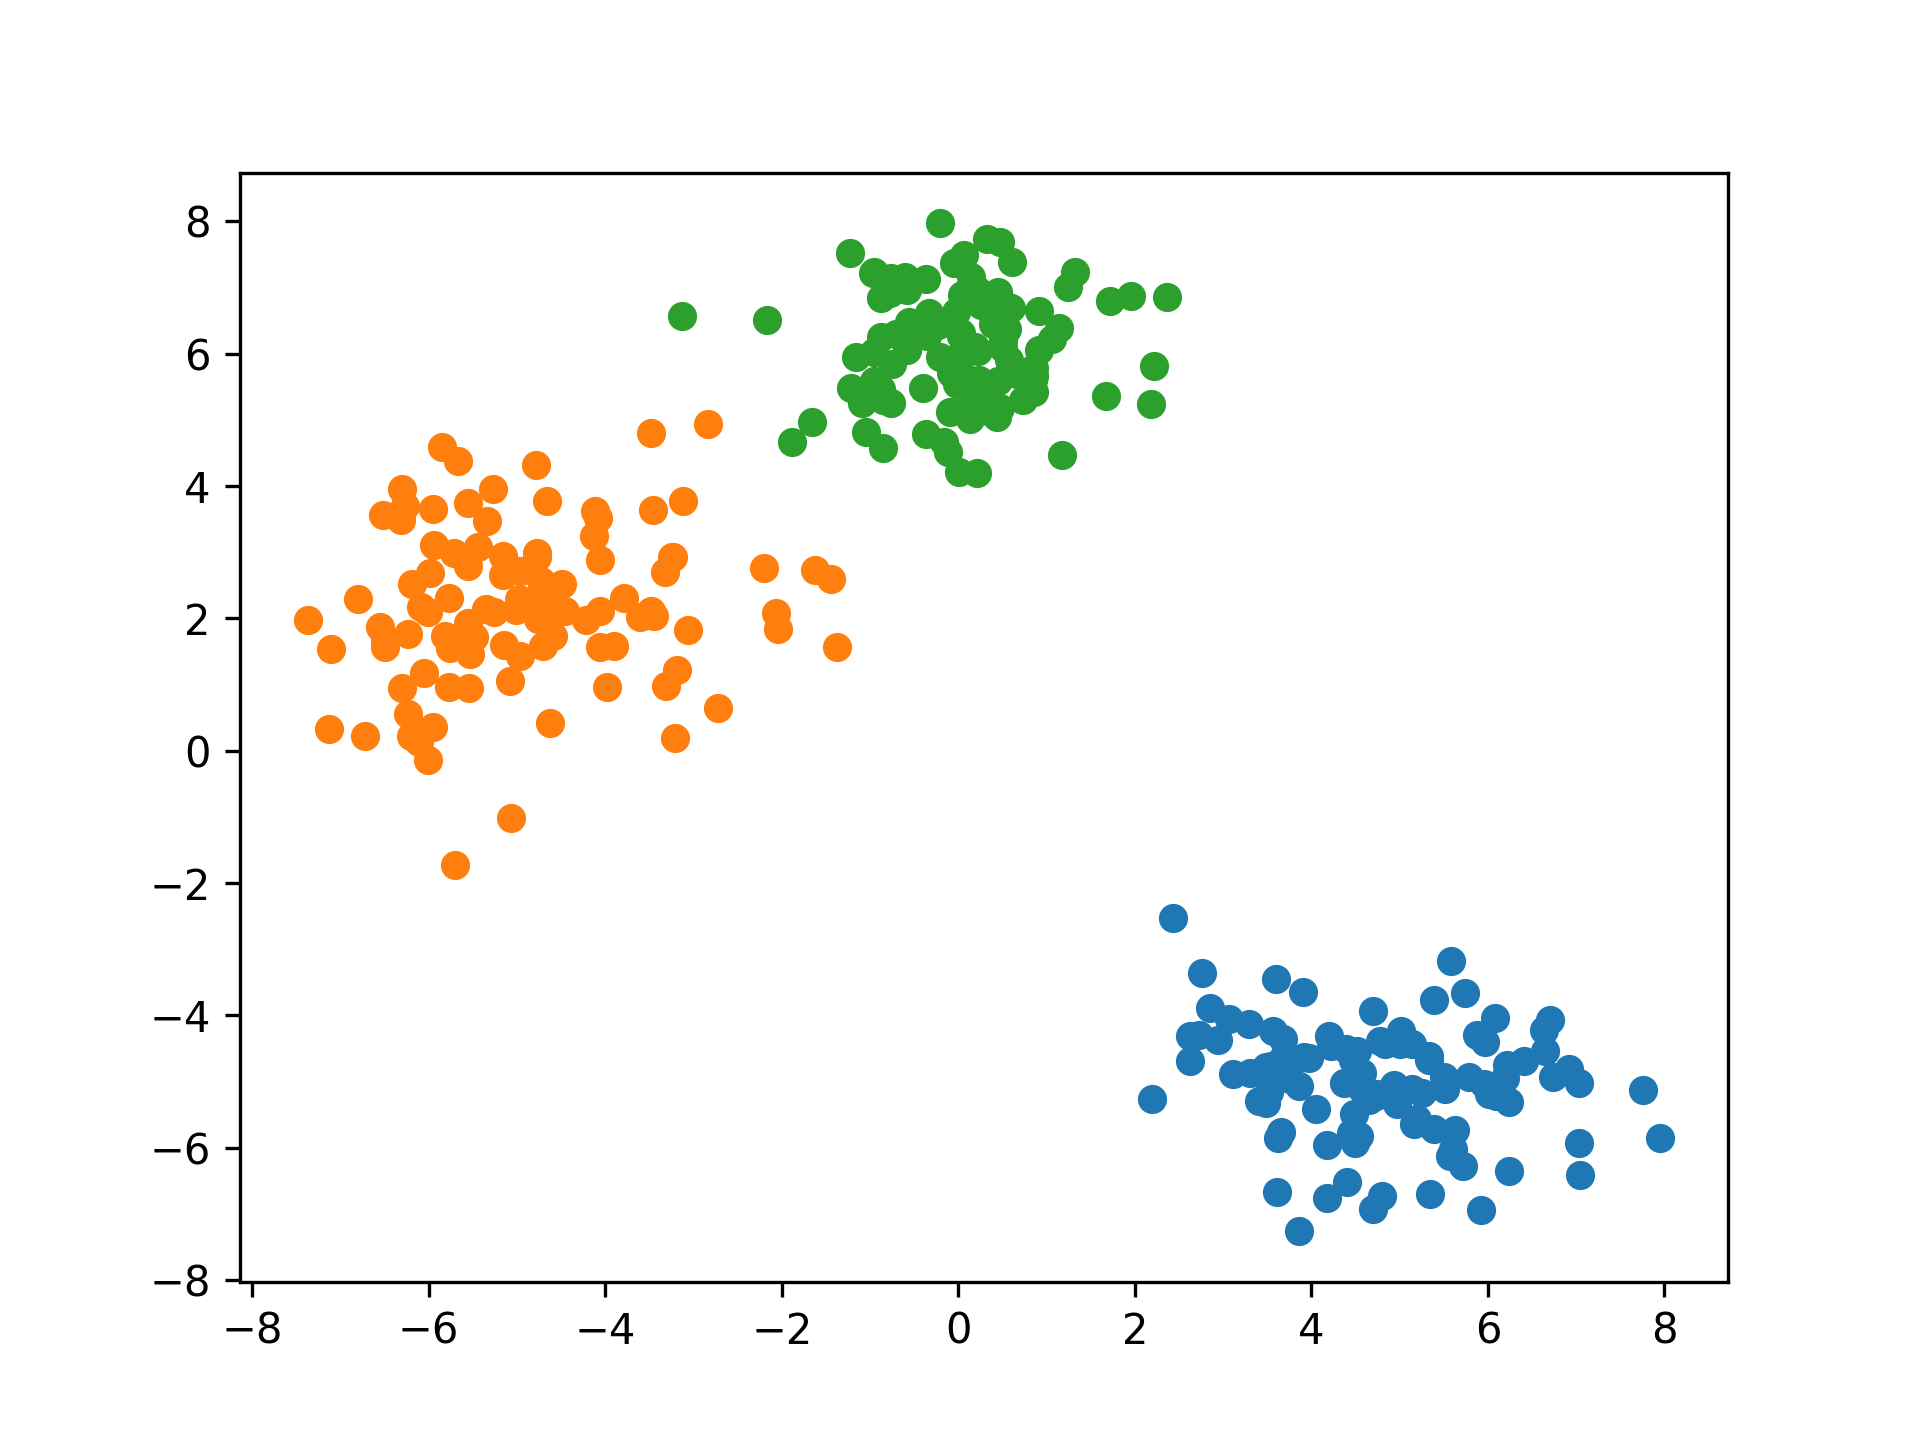
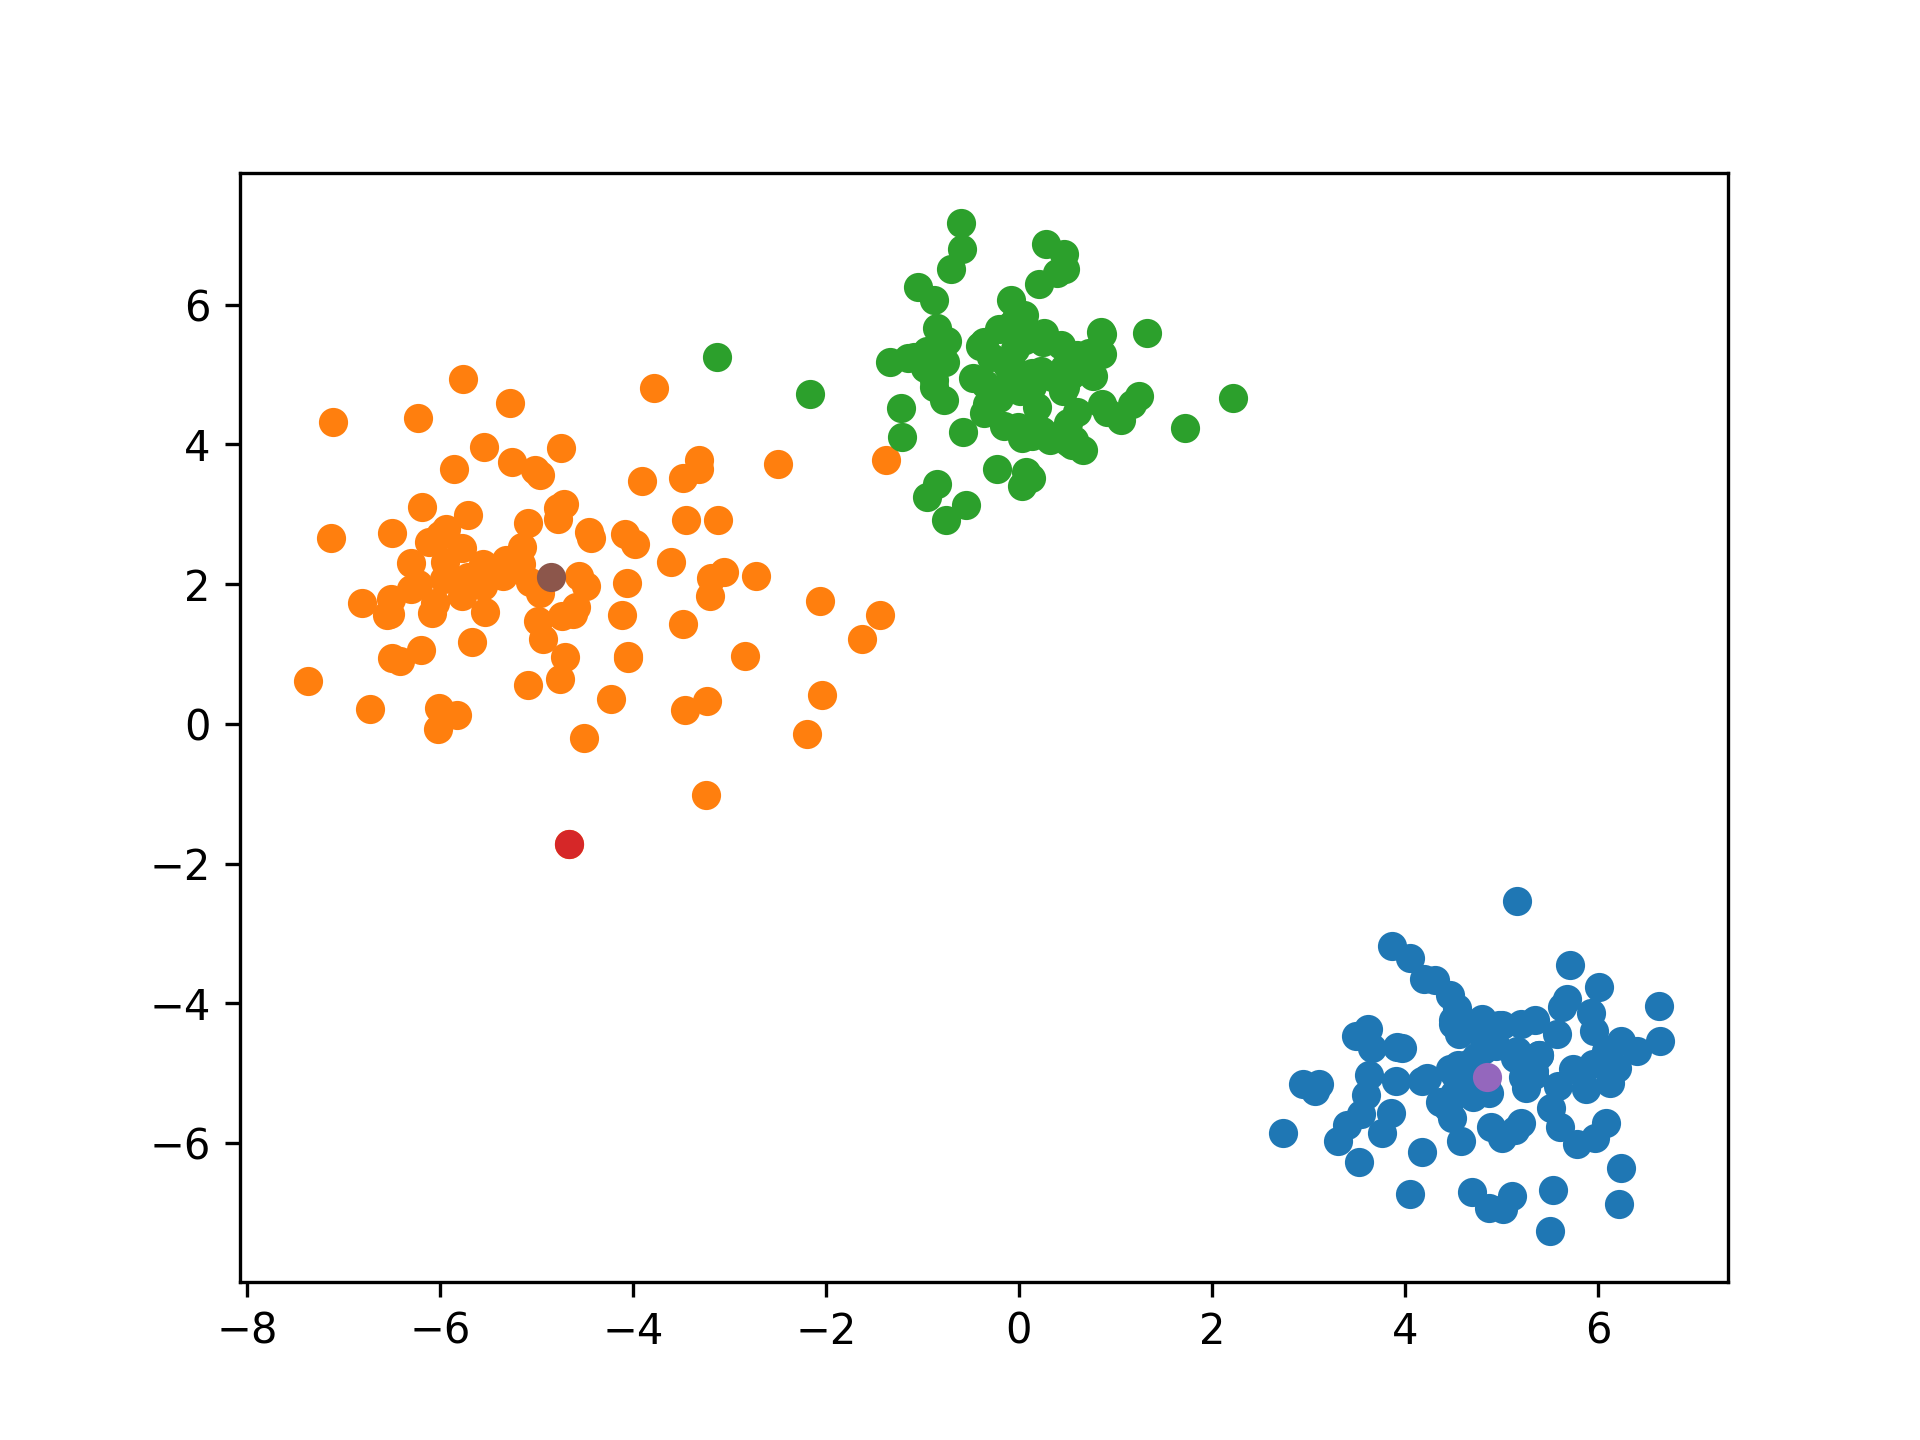
Check in.

diff --git a/exercise.06/main.py b/exercise.06/main.py
@@ -1,6 +1,6 @@
 import math
 import random
-from typing import List
+from typing import List, Tuple
 import numpy as np
 import matplotlib.pyplot as plt
 
@@ -32,13 +32,73 @@ def generate_distribution_points(center: (float, float), variance: (float, float
     return x_points, y_points
 
 
+def k_mean(k: int, training_data: List[Tuple[float, float, int]]) -> List[Tuple[float, float]]:
+    centroids = []
+    c_values = []
+
+    for _ in range(k):
+        x = random.uniform(-5, 5)
+        y = random.uniform(-5, 5)
+        centroids.append((x, y))
+        c_values.append([])
+
+    for inx in range(len(training_data)):
+        x = training_data[inx]
+        best_distance = -1
+        best_centroid = -1
+
+        for iny in range(k):
+            centroid = centroids[iny]
+            distance = (x[0] - centroid[0]) ** 2 + (x[1] - centroid[1]) ** 2
+
+            if best_distance < 0 or best_distance > distance:
+                best_distance = distance
+                best_centroid = iny
+
+        c_values[best_centroid].append(x)
+
+    print(c_values)
+
+    for inx in range(k):
+        x_sum = 0
+        y_sum = 0
+
+        count = len(c_values[inx])
+
+        for x in c_values[inx]:
+            x_sum += x[0]
+            y_sum += x[1]
+
+        centroids[inx] = (x_sum / count, y_sum / count)
+
+    return centroids
+
+
 random.seed(19980528)
-x_points_1, y_points_1 = generate_distribution_points((5, -5), (1.3, 0.9))
+x_points_1, y_points_1 = generate_distribution_points((5, -5), (0.9, 0.9))
 x_points_2, y_points_2 = generate_distribution_points((-5, 2), (1.4, 1.4))
-x_points_3, y_points_3 = generate_distribution_points((0, 6),  (1.0, 0.8))
+x_points_3, y_points_3 = generate_distribution_points((0, 5), (0.8, 0.8))
 
 plt.figure(0)
 plt.scatter(x_points_1, y_points_1)
 plt.scatter(x_points_2, y_points_2)
 plt.scatter(x_points_3, y_points_3)
+# plt.savefig("ml.exercise.06.01.png", dpi=300)
+
+
+training_data = []
+
+for inx, iny in zip(x_points_1, y_points_1):
+    training_data.append((inx, iny, 0))
+
+for inx, iny in zip(x_points_2, y_points_2):
+    training_data.append((inx, iny, 1))
+
+for inx, iny in zip(x_points_1, y_points_1):
+    training_data.append((inx, iny, 2))
+
+centroids = k_mean(3, training_data)
+
+for centroid in centroids:
+    plt.scatter(centroid[0], centroid[1])
 plt.savefig("ml.exercise.06.01.png", dpi=300)
